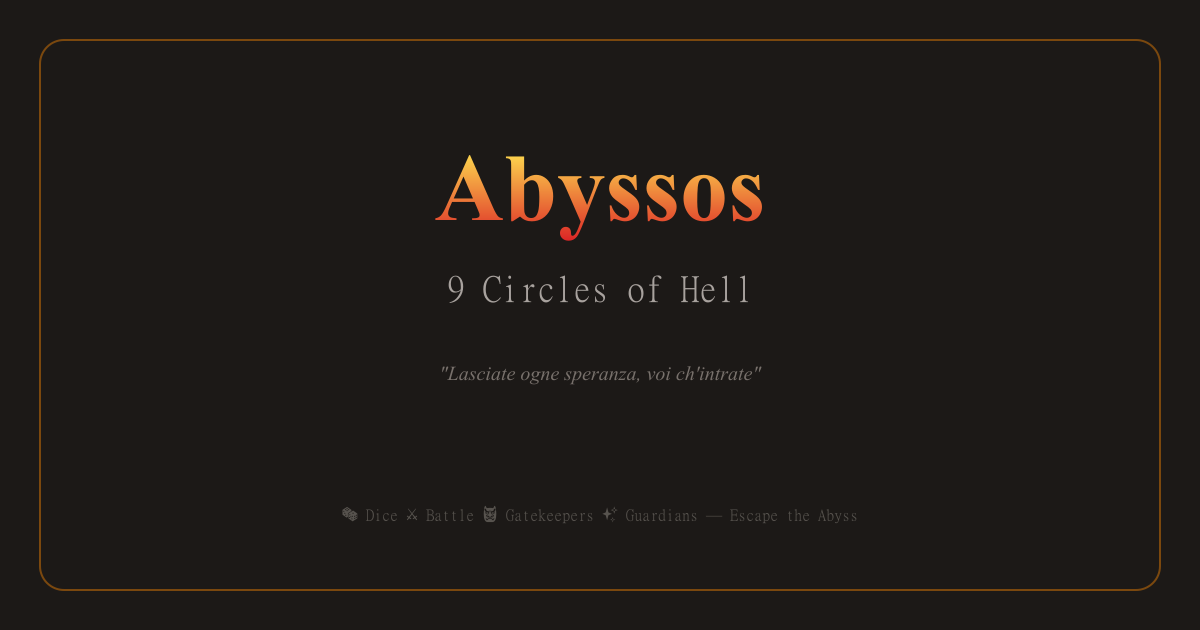
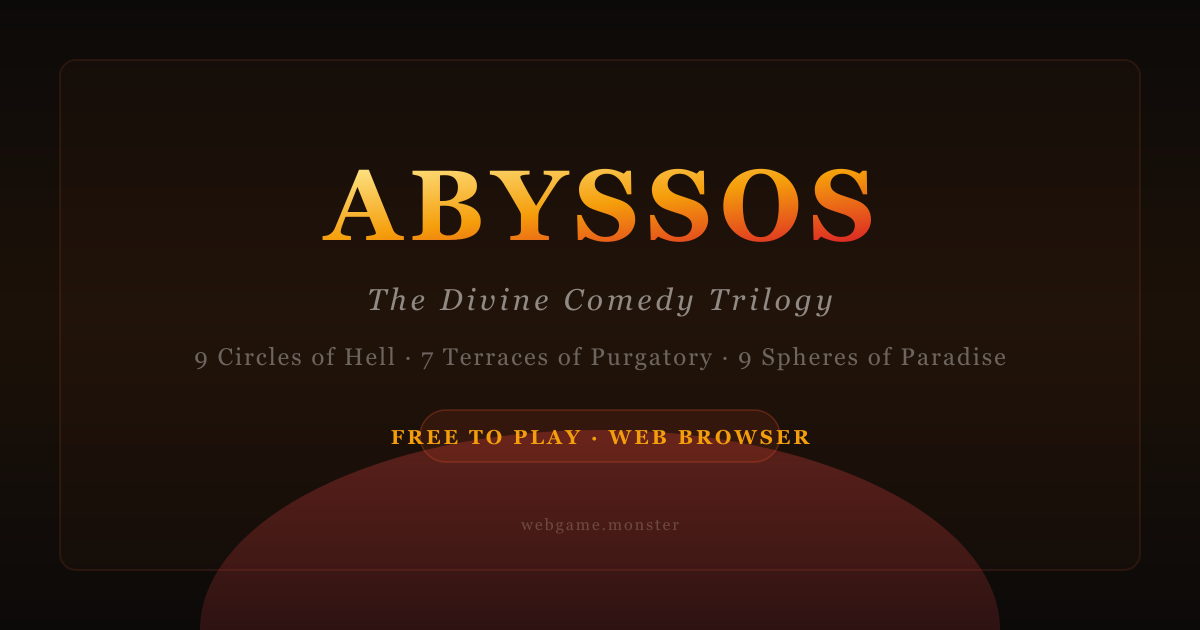
@ fix: SEO optimization for international users
- Add ads.txt and CNAME for webgame.monster custom domain
- Generate OG image (1200x630 PNG) for social sharing
- Add Google/Naver site verification meta tags support
- Fix robots.ts: use domain env var, improve disallow patterns
- Fix sitemap.ts: use domain env var, add hreflang alternates
- Fix locale layout: use NEXT_PUBLIC_DOMAIN for production URLs
- Add .env.example with all SEO-related variables documented

@

diff --git a/src/app/robots.ts b/src/app/robots.ts
@@ -3,17 +3,36 @@ import type { MetadataRoute } from 'next';
 export const dynamic = 'force-static';
 
 export default function robots(): MetadataRoute.Robots {
-  const baseUrl = process.env.NEXT_PUBLIC_BASE_PATH
-    ? `https://core13773.github.io${process.env.NEXT_PUBLIC_BASE_PATH}`
-    : 'http://localhost:3000';
+  // Primary domain for production (custom domain), fallback for local dev
+  const baseUrl = process.env.NEXT_PUBLIC_DOMAIN
+    ? `https://${process.env.NEXT_PUBLIC_DOMAIN}`
+    : process.env.NEXT_PUBLIC_BASE_PATH
+      ? `https://core13773.github.io${process.env.NEXT_PUBLIC_BASE_PATH}`
+      : 'http://localhost:3000';
 
   return {
     rules: {
       userAgent: '*',
       allow: '/',
-      disallow: ['/_next/', '/api/', '/debug', '/debug2.html', '/debug3.html', '/debug4.html', '/debug5.html', '/debug6.html', '/debug7.html', '/debug8.html', '/debug9.html', '/debug10.html', '/debug11.html', '/debug-svg.html', '/svg-test.html', '/test-img.html', '/card-preview.html'],
+      disallow: [
+        '/_next/',
+        '/api/',
+        // Debug & test pages
+        '/debug*.html',
+        '/svg-test.html',
+        '/test-*.html',
+        '/card-preview.html',
+        // SVGs used during development
+        '/del-*.svg',
+        '/step*.svg',
+        '/test-*.svg',
+        '/file.svg',
+        '/globe.svg',
+        '/next.svg',
+        '/vercel.svg',
+        '/window.svg',
+      ],
     },
     sitemap: `${baseUrl}/sitemap.xml`,
-    host: baseUrl,
   };
 }

diff --git a/src/app/[locale]/layout.tsx b/src/app/[locale]/layout.tsx
@@ -7,9 +7,12 @@ import GoogleAnalytics from '@/components/layout/GoogleAnalytics';
 import GoogleAdSense from '@/components/layout/GoogleAdSense';
 import { routing } from '@/i18n/routing';
 
-const siteUrl = process.env.NEXT_PUBLIC_BASE_PATH
-  ? `https://core13773.github.io${process.env.NEXT_PUBLIC_BASE_PATH}`
-  : 'http://localhost:3000';
+// Primary domain for production (custom domain), fallback for local dev
+const siteUrl = process.env.NEXT_PUBLIC_DOMAIN
+  ? `https://${process.env.NEXT_PUBLIC_DOMAIN}`
+  : process.env.NEXT_PUBLIC_BASE_PATH
+    ? `https://core13773.github.io${process.env.NEXT_PUBLIC_BASE_PATH}`
+    : 'http://localhost:3000';
 
 export const viewport: Viewport = {
   themeColor: [
@@ -119,6 +122,12 @@ export async function generateMetadata({
     category: 'game',
     applicationName: isKo ? '어비소스' : 'Abyssos',
     generator: 'Next.js',
+    verification: {
+      google: process.env.NEXT_PUBLIC_GOOGLE_VERIFICATION,
+      other: {
+        'naver-site-verification': [process.env.NEXT_PUBLIC_NAVER_VERIFICATION].filter(Boolean) as string[],
+      },
+    },
   };
 }
 

diff --git a/src/app/sitemap.ts b/src/app/sitemap.ts
@@ -3,9 +3,12 @@ import type { MetadataRoute } from 'next';
 export const dynamic = 'force-static';
 
 export default function sitemap(): MetadataRoute.Sitemap {
-  const baseUrl = process.env.NEXT_PUBLIC_BASE_PATH
-    ? `https://core13773.github.io${process.env.NEXT_PUBLIC_BASE_PATH}`
-    : 'http://localhost:3000';
+  // Primary domain for production (custom domain), fallback for local dev
+  const baseUrl = process.env.NEXT_PUBLIC_DOMAIN
+    ? `https://${process.env.NEXT_PUBLIC_DOMAIN}`
+    : process.env.NEXT_PUBLIC_BASE_PATH
+      ? `https://core13773.github.io${process.env.NEXT_PUBLIC_BASE_PATH}`
+      : 'http://localhost:3000';
 
   const pages = [
     { path: '/', priority: 1.0 },
@@ -20,7 +23,7 @@ export default function sitemap(): MetadataRoute.Sitemap {
   return pages.map(({ path, priority }) => ({
     url: `${baseUrl}${path}`,
     lastModified: new Date(),
-    changeFrequency: 'weekly',
+    changeFrequency: 'weekly' as const,
     priority,
     alternates: {
       languages: {